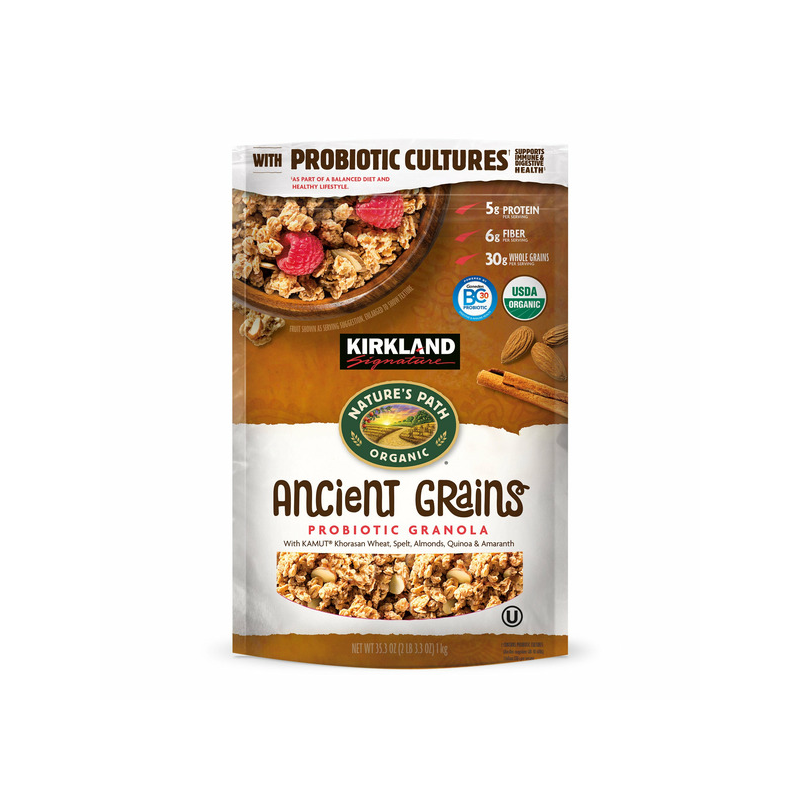
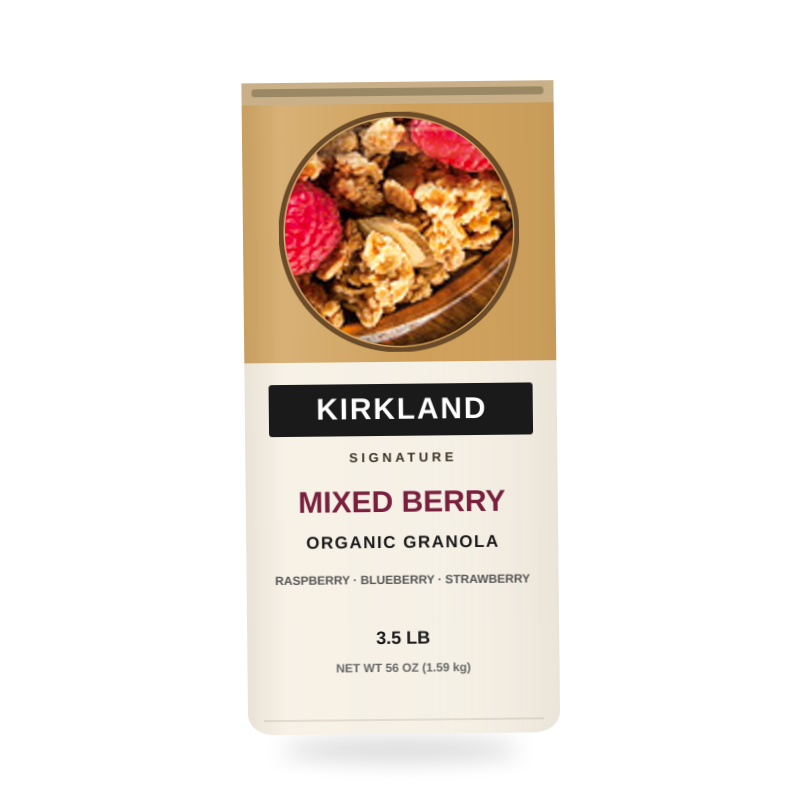
Print Mixed Berry granola as a Kirkland pouch
Replace the Ancient Grains / Nature's Path pack shot with a new stand-up pouch: photographic berry-granola window, Kirkland Mixed Berry lockup, no competing flavor type.

Changed region(s): [[0.2812, 0.0938, 0.7188, 0.9688]]

diff --git a/lib/data/products.ts b/lib/data/products.ts
@@ -34,7 +34,7 @@ export const products: Product[] = [
     price: 5.29,
     originalPrice: 6.83,
     savings: 1.54,
-    image: "/products/1.png",
+    image: "/products/1.png?v=2",
     inStock: true,
     tags: ["weekly", "trending"],
     rating: 4.2,
@@ -961,7 +961,7 @@ export function filterProducts(filters: ProductFilters = {}): Product[] {
         return p.department === "Trending" || tags.includes("trending");
       if (tag === "new") return p.department === "What's New" || tags.includes("new");
       if (tag === "weekly")
-        // id 1 is Ancient Grains shot as Mixed Berry — keep it off weekly merch.
+        // id 1 is composed Mixed Berry — keep it off weekly so flyer pages stay the four printed deals.
         return (
           p.id !== "1" &&
           (p.department === "Weekly Savings" || tags.includes("weekly"))
